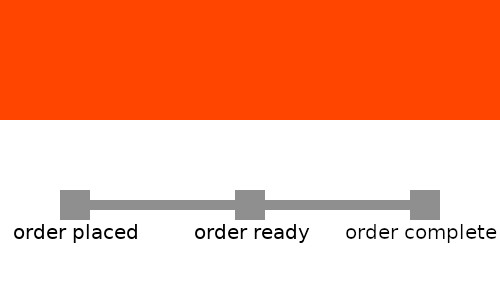
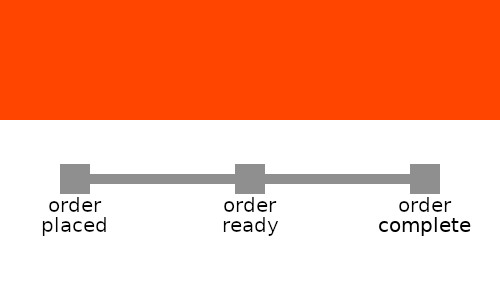
add status images

Changed region(s): [[0.03, 0.54, 1.0, 0.81]]

diff --git a/src/main/frontend/FC/status.html b/src/main/frontend/FC/status.html
@@ -1,17 +1,21 @@
 <!DOCTYPE html>
 <html lang="en">
 <head>
-    <meta charset="utf-8" />
-    <link rel="stylesheet" href="../main.css" />
-    <meta name="viewport" content="width=device-width, initial-scale=1, shrink-to-fit=no" />
-    <title>Chicken Fly: Order status</title>
+	<meta charset="utf-8" />
+	<link rel="stylesheet" href="../main.css" />
+	<meta name="viewport" content="width=device-width, initial-scale=1, shrink-to-fit=no" />
+	<title>Chicken Fly: Order status</title>
 </head>
 <body>
-    <main>
-    	<header><h1>Order Status</h1></header>
-    	<img src="images/status.jpg"/>
-    </main>
-    <footer>all rights reserved</footer>
+	<main>
+		<header><h1>Order Status</h1></header>
+		<label name="idinput">order ID:</label>
+		<input name="idinput" id="idinput" type="number" placeholder="12345" min="1"></input>
+		<button onclick="get_order_status()">Get Status</button>
+		<button onclick="reset_img()">Clear</button>
+		<img id="statusimg" src="images/status.jpg"/>
+	</main>
+	<footer>all rights reserved</footer>
 </body>
 <script src="js/status.js"></script>
 </html>

diff --git a/src/main/frontend/FC/js/status.js b/src/main/frontend/FC/js/status.js
@@ -1,0 +1,37 @@
+function get_order_status(){
+	let url = 'http://localhost:9000/orders/id/' + document.getElementById('idinput').value
+	fetch(url, {
+		method: 'GET',
+		mode: 'cors',
+	}).then(response =>{
+		console.log('reply:')
+		console.log(response)
+		return response.json()
+	}).catch(err =>{
+		console.log('mistakes were made:')
+		console.log(err)
+	}).then(response_dict =>{
+		console.log('final step:')
+		console.log(response_dict)
+		console.log(typeof(response_dict))
+		if (response_dict === undefined){
+			reset_img()
+		}else{
+			let img = document.getElementById('statusimg')
+			if (response_dict.status === "completed"){
+				img.src = "images/status3.jpg"
+			}else if (response_dict.status === "ready for pickup"){
+				img.src = "images/status2.jpg"
+			}else if (response_dict.status === "canceled"){
+				img.src = "images/status0.jpg"
+			}else{
+				img.src = "images/status1.jpg"
+			}
+		}
+	})
+}
+
+function reset_img(){
+	document.getElementById('statusimg').src = "images/status.jpg"
+	document.getElementById('idinput').value = ""
+}

diff --git a/src/main/frontend/main.css b/src/main/frontend/main.css
@@ -20,6 +20,8 @@ body {
 main {
 	display: flex;
 	flex-direction: column;
+	max-width: 50em;
+	align-self: center;
 }
 
 body footer{
@@ -28,7 +30,6 @@ body footer{
 }
 
 img {
-	max-width: 50%;
 	align-self: center;
 	margin: 2em;
 	border: thick outset steelblue;
